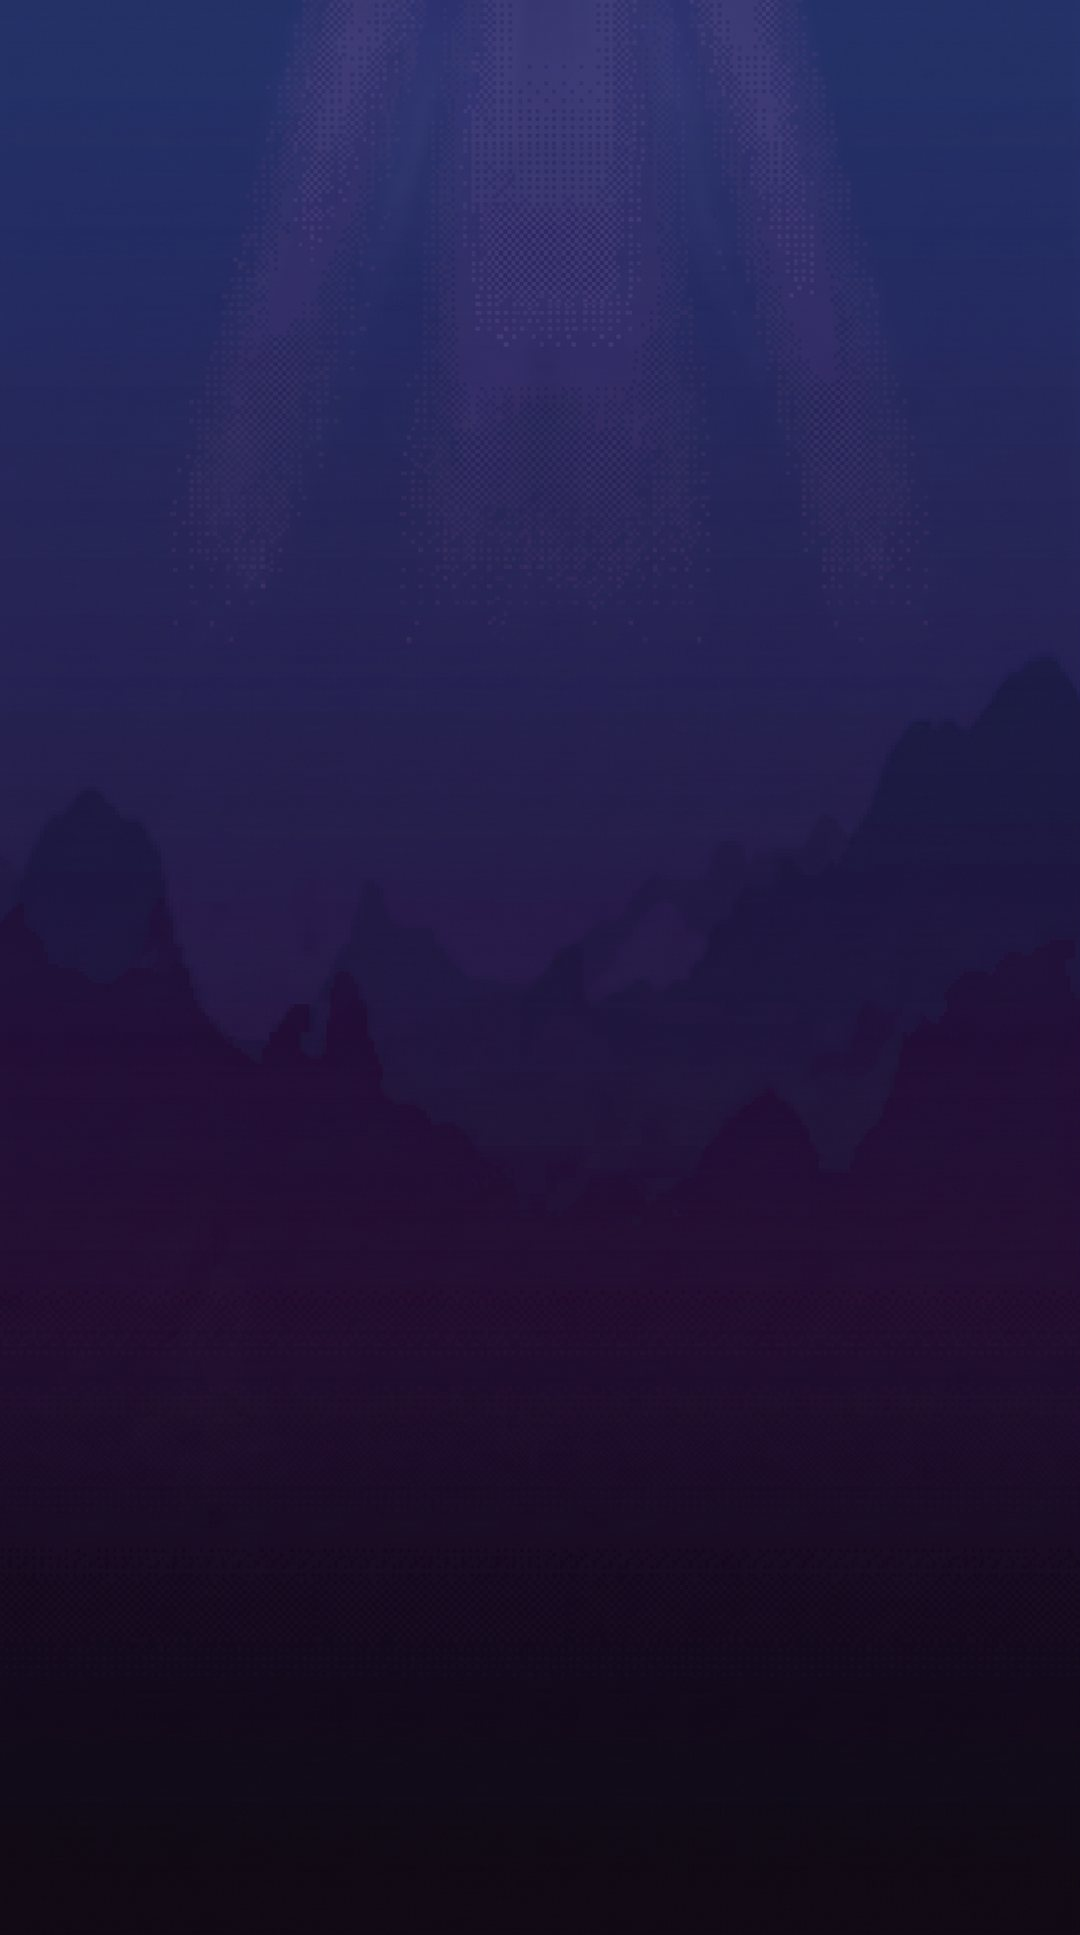
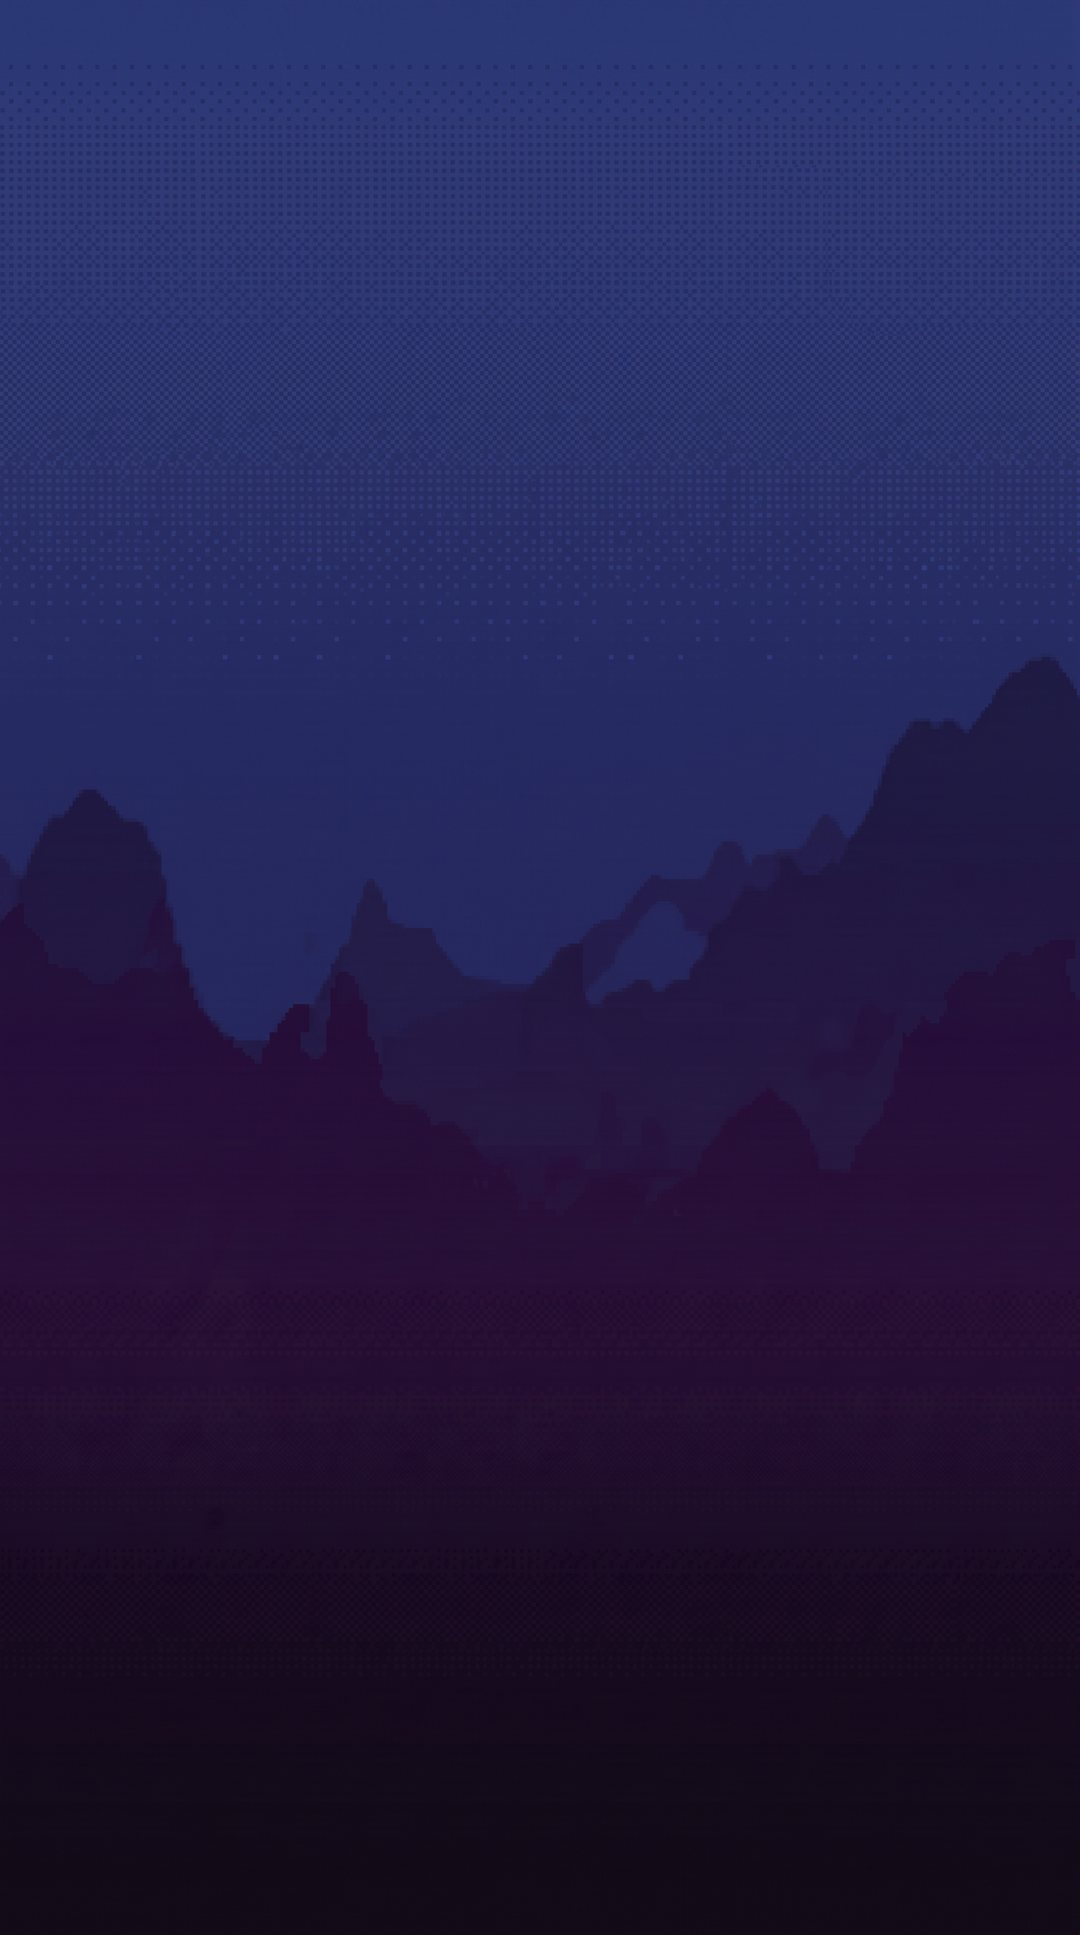
Export level 1's elements as reference images, and fix two things the hand-replacement workflow exposed
REFERENCE IMAGES (docs/element-reference/)

One PNG per element of level 1, drawn by the GAME'S OWN painters rather than by a second renderer, so what is in the file
is what is in the water: 矿物颗粒, 热泉喷口, 小鱼, 盲虾, 喷口蟹, BOSS-烟囱蟹王.

The procedure: clear the water, put one element in the middle of the view, compute its screen box from the same camera
maths the renderer uses, and cut that box out. Two elements are still missing and are worth naming rather than hiding:
普通气泡 and the two pickups (能力拾取 / 炮口强化) spawn through the collectable and drop channels rather than the hazard
one, and 管虫 is scenery rather than a hazard, so `debugSpawnHazardOnPlayer` cannot reach it.

TWO FIXES THE WORKFLOW EXPOSED

  the dev server crashed again with EBUSY   this time on `src/assets/levels/黑烟囱墓场-最远景.png` -- a picture being
                                           written while Vite watched it. `src/assets/levels/**` is now ignored like
                                           `public/levels/**`: a replaced file keeps its URL, so a refresh picks up new
                                           art, and a file of a NEW name is announced by the config or the glob, both of
                                           which are still watched.
  the extension is now OPTIONAL              the config says `黑烟囱墓场-最远景` with no extension, and the loader accepts
                                           any of jpg/jpeg/png/webp with that name. Whoever swaps the art should not have
[…]

diff --git a/src/parallax.ts b/src/parallax.ts
@@ -43,8 +43,18 @@ const LEVEL_IMAGES = import.meta.glob('./assets/levels/*.{jpg,jpeg,png,webp}', {
 
 /** Resolve a level's `backdrop.image` (a bare filename) to the URL Vite emitted for it. */
 function imageUrl(name: string): string {
-  const key = './assets/levels/' + name;
-  const url = LEVEL_IMAGES[key];
+  /**
+   * The extension is OPTIONAL, and that is on purpose.
+   *
+   * These files are swapped by hand, and whoever swaps them should not have to care that the code wants `.jpg`: a `.png`
+   * dropped in with the same name is the same picture as far as anyone looking at the folder is concerned. If the exact
+   * name is not there, the first file whose name (without its extension) matches wins -- so the config says
+   * `黑烟囱墓场-最远景` and any of `jpg`, `jpeg`, `png`, `webp` satisfies it.
+   */
+  const bare = name.replace(/\.[^.]+$/, '');
+  const exact = './assets/levels/' + name;
+  const key = exact in LEVEL_IMAGES ? exact : Object.keys(LEVEL_IMAGES).find((k) => k.replace('./assets/levels/', '').replace(/\.[^.]+$/, '') === bare);
+  const url = key ? LEVEL_IMAGES[key] : undefined;
   if (!url) {
     console.warn(
       '[backdrop] no image called "' + name + '". Available: ' + Object.keys(LEVEL_IMAGES).map((k) => k.replace('./assets/levels/', '')).join(', '),
@@ -285,6 +295,7 @@ export class Parallax {
     }
   }
 }
+
 
 
 

diff --git a/README.md b/README.md
@@ -479,6 +479,18 @@ playing → cleared → ascend → intro（下一关）
 
 实测：第一关带 2 排枪 + 第 2 档射速通关 → 进入第二关后**仍是 2 排 / 第 2 档** ✓、分数 200 → 1200 ✓、阶段序列 `playing → cleared → ascend → intro` ✓；打通第六关 → 阶段 `summary`、面板打开、总分 1100 ✓
 
+### 元素参考图（`docs/element-reference/`）
+
+第一关每种元素一张 PNG，**用游戏自己的画笔画的**（不是另画一套），所以图里就是水里的样子，作为后续替换美术的对照：
+
+```
+矿物颗粒.png   热泉喷口.png   小鱼.png   盲虾.png   喷口蟹.png   BOSS-烟囱蟹王.png
+```
+
+导出脚本在 `.scratch/export.mjs`（临时脚本，未入库）：把元素单独放到画面中央、清掉其它东西，再按摄像机公式算出它的屏幕方框截图。
+
+**还没导出的**：`普通气泡`（可收集物）、`能力拾取`、`炮口强化`（拾取物），以及 `管虫`（它是布景/障碍而不是 hazard，`debugSpawnHazardOnPlayer` 走不通）——它们各有各的生成通道，下一轮补上；你也可以先按名字在 `src/assets/levels/` 里放图，路径约定不变。
+
 ### 图片资源怎么管（换成中文名，手动替换即可）
 
 **放哪儿**：`src/assets/levels/`，文件名用**中文**，按关卡命名：
@@ -1232,6 +1244,7 @@ pwsh -File scripts\install-pwsh-path.ps1
 
 > 机器 PATH 里那条失效的 7.6.4 条目已经无害（目录不存在，只是拖慢一点点路径查找），
 > 但它归 `Machine` 作用域，**需要管理员**才能清理。脚本只报告、不修改。
+
 
 
 
